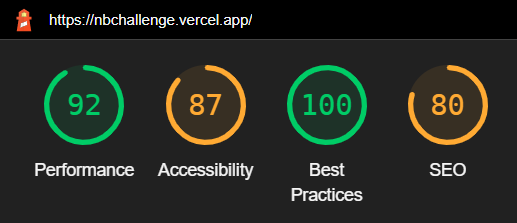
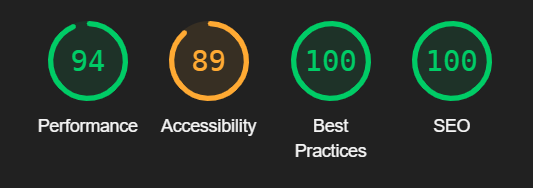
:zap: Updated head and lighthouse report

diff --git a/src/pages/_document.tsx b/src/pages/_document.tsx
@@ -8,6 +8,12 @@ export default function Document() {
           href="https://fonts.googleapis.com/css2?family=Roboto:wght@100&display=swap"
           rel="stylesheet"
         />
+        <meta name="viewport" content="width=device-width, initial-scale=1" />
+        <meta
+          name="description"
+          content="TV bland. Never miss an episode of Eastenders"
+        />
+        <title>TV Bland</title>
       </Head>
       <body>
         <Main />
